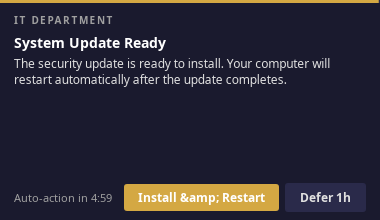
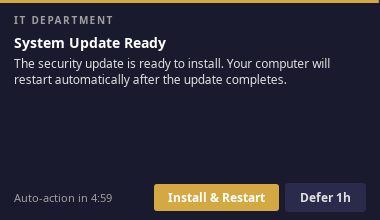
fix: Decode HTML entities from Wails binding layer
Wails v2 HTML-encodes strings in its Go-to-JS bridge, turning & into
&amp; in text rendered via textContent. Add a textarea-based decoder
applied to all user-visible config fields (heading, message, title,
button labels, dropdown labels, inbox cards). Recaptured screenshots
affected by the bug.

Changed region(s): [[0.3184, 0.8182, 0.5789, 0.9818]]

diff --git a/frontend/main.js b/frontend/main.js
@@ -14,6 +14,13 @@
 
   var validStyles = { primary: true, secondary: true, danger: true };
 
+  var _decodeEl = document.createElement("textarea");
+  function decodeHTMLEntities(s) {
+    if (!s || s.indexOf("&") === -1) return s;
+    _decodeEl.innerHTML = s;
+    return _decodeEl.value;
+  }
+
   function findBackend(method) {
     if (!window.go) return null;
     for (var ns in window.go) {
@@ -171,7 +178,7 @@
 
     var heading = document.createElement("span");
     heading.className = "inbox-card-heading";
-    heading.textContent = entry.heading;
+    heading.textContent = decodeHTMLEntities(entry.heading);
     top.appendChild(heading);
 
     if (entry.action_required) {
@@ -179,7 +186,7 @@
       if (primary) {
         var badge = document.createElement("button");
         badge.className = "inbox-card-badge badge-ok badge-action";
-        badge.textContent = primary.label;
+        badge.textContent = decodeHTMLEntities(primary.label);
         badge.setAttribute("data-id", entry.id);
         badge.setAttribute("data-value", primary.value || primary.label.toLowerCase());
         badge.addEventListener("click", onInlineButtonClick);
@@ -194,7 +201,7 @@
     if (entry.message) {
       var msg = document.createElement("div");
       msg.className = "inbox-card-message";
-      msg.textContent = entry.message;
+      msg.textContent = decodeHTMLEntities(entry.message);
       card.appendChild(msg);
     }
 
@@ -287,9 +294,9 @@
       document.documentElement.style.setProperty("--btn-primary-bg", cfg.accent_color);
     }
 
-    document.getElementById("title").textContent = cfg.title || "";
-    document.getElementById("heading").textContent = cfg.heading || "";
-    document.getElementById("message").textContent = cfg.message || "";
+    document.getElementById("title").textContent = decodeHTMLEntities(cfg.title || "");
+    document.getElementById("heading").textContent = decodeHTMLEntities(cfg.heading || "");
+    document.getElementById("message").textContent = decodeHTMLEntities(cfg.message || "");
 
     if (cfg.help_url && /^https?:\/\//i.test(cfg.help_url)) {
       var link = document.getElementById("help-link");
@@ -404,7 +411,7 @@
       } else {
         var el = document.createElement("button");
         el.className = "btn btn-" + (validStyles[btn.style] ? btn.style : "secondary");
-        el.textContent = btn.label;
+        el.textContent = decodeHTMLEntities(btn.label);
         el.setAttribute("data-value", btn.value || btn.label.toLowerCase());
         el.addEventListener("click", onButtonClick);
         container.appendChild(el);
@@ -418,7 +425,7 @@
 
     var trigger = document.createElement("button");
     trigger.className = "btn btn-" + (validStyles[btn.style] ? btn.style : "secondary");
-    trigger.textContent = btn.label + " \u25B4";
+    trigger.textContent = decodeHTMLEntities(btn.label) + " \u25B4";
     trigger.addEventListener("click", function(e) {
       e.stopPropagation();
       wrapper.querySelector(".dropdown-menu").classList.toggle("open");
@@ -431,7 +438,7 @@
       var opt = btn.dropdown[j];
       var item = document.createElement("div");
       item.className = "dropdown-item";
-      item.textContent = opt.label;
+      item.textContent = decodeHTMLEntities(opt.label);
       item.setAttribute("data-value", opt.value || opt.label || "");
       item.addEventListener("click", onButtonClick);
       menu.appendChild(item);
